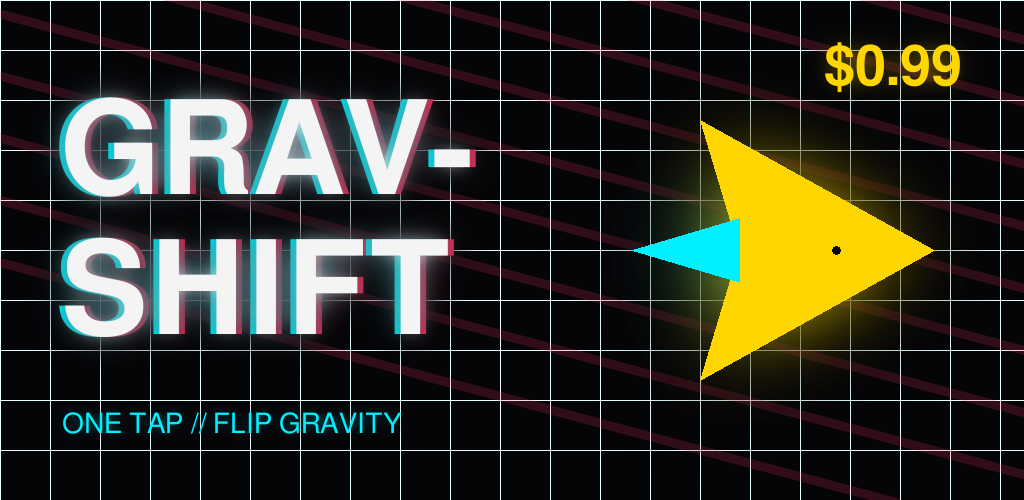
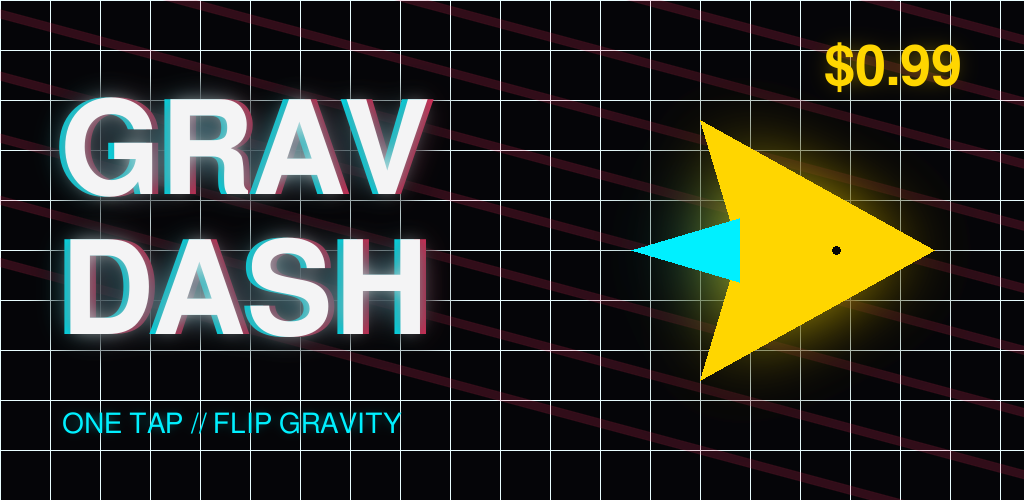
auto-commit for 5ea995e9-c694-4082-b433-bb8a6110594f

Changed region(s): [[0.0312, 0.45, 0.4688, 0.69], [0.4062, 0.27, 0.4688, 0.36], [0.0938, 0.45, 0.125, 0.48]]

diff --git a/scripts/gen_assets.py b/scripts/gen_assets.py
@@ -177,8 +177,8 @@ def make_feature():
     img.alpha_composite(stripe)
 
     # LEFT: stacked title
-    title = "GRAV-"
-    title2 = "SHIFT"
+    title = "GRAV"
+    title2 = "DASH"
     draw_neon_text(img, title, (60, 90), 130, WHITE, glow_radius=18)
     draw_neon_text(img, title, (66, 90), 130, CORAL, glow_radius=18)
     draw_neon_text(img, title, (54, 90), 130, CYAN, glow_radius=18)
@@ -206,7 +206,9 @@ def make_feature():
 
 if __name__ == "__main__":
     print("Generating GRAVDASH brand assets…")
-    make_icon()
+    # NOTE: make_icon() is intentionally skipped — the user picked the
+    # Concept 2 (Inverted World) icon. Use /app/scripts/apply_icon_concept_2.py
+    # to regenerate the icon if needed.
     make_splash()
     make_feature()
     print(f"\nAll assets written to {OUT}/")